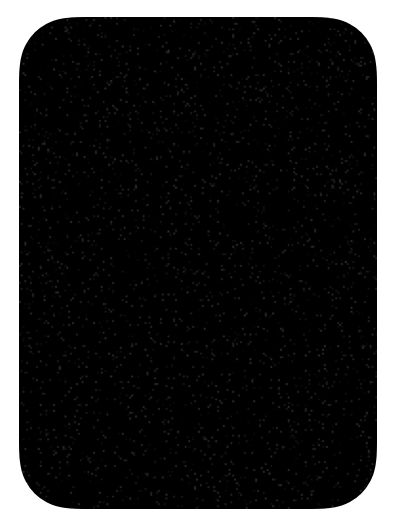
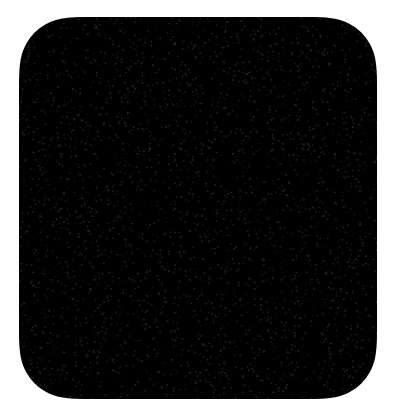
Smaller typing screen.

Changed region(s): [[0.0303, 0.8357, 0.9697, 0.9595], [0.0303, 0.031, 0.9697, 0.1548]]

diff --git a/app/src/components/TypingScreen.tsx b/app/src/components/TypingScreen.tsx
@@ -205,7 +205,7 @@ const useStyles = createUseStyles({
 
   container: {
     width:  396,
-    height: 530,
+    height: 420,
 
     paddingTop:        29,
     paddingBottom:     60,
